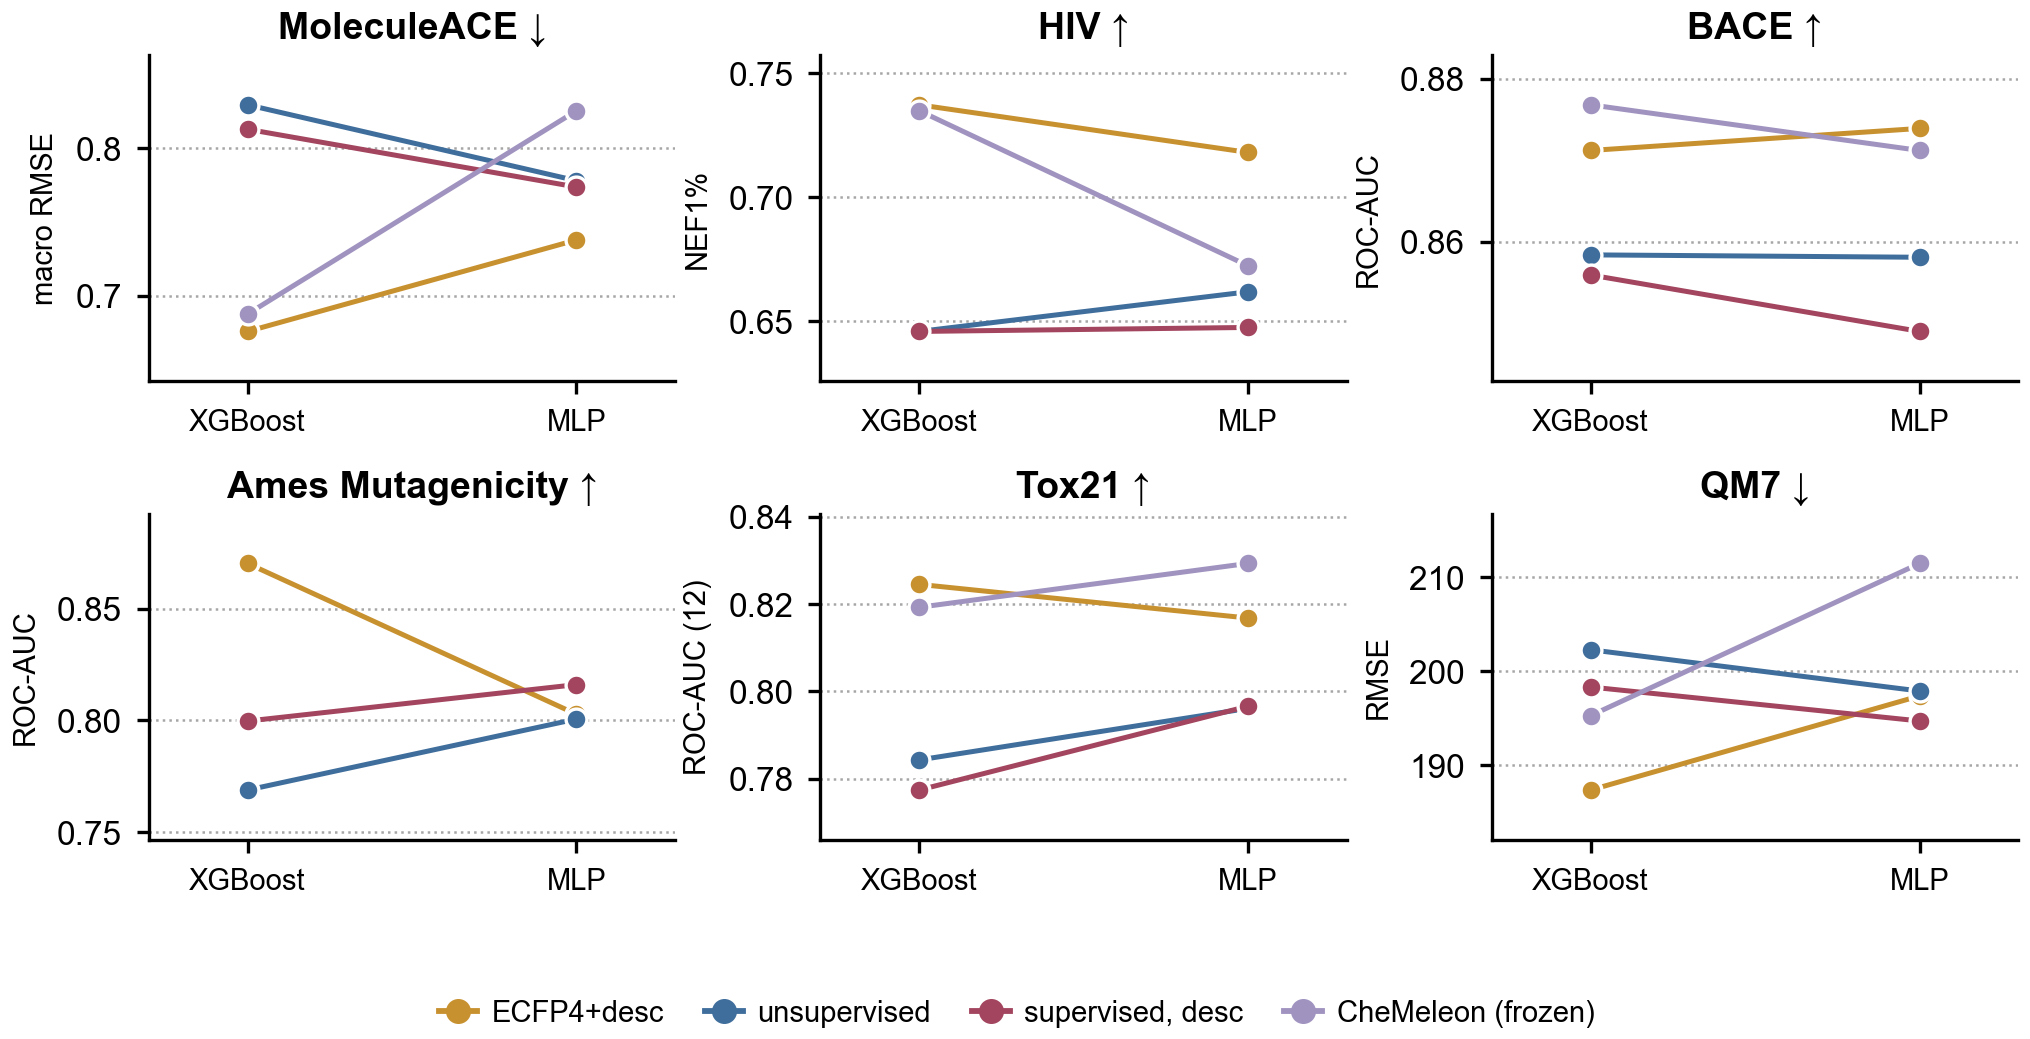
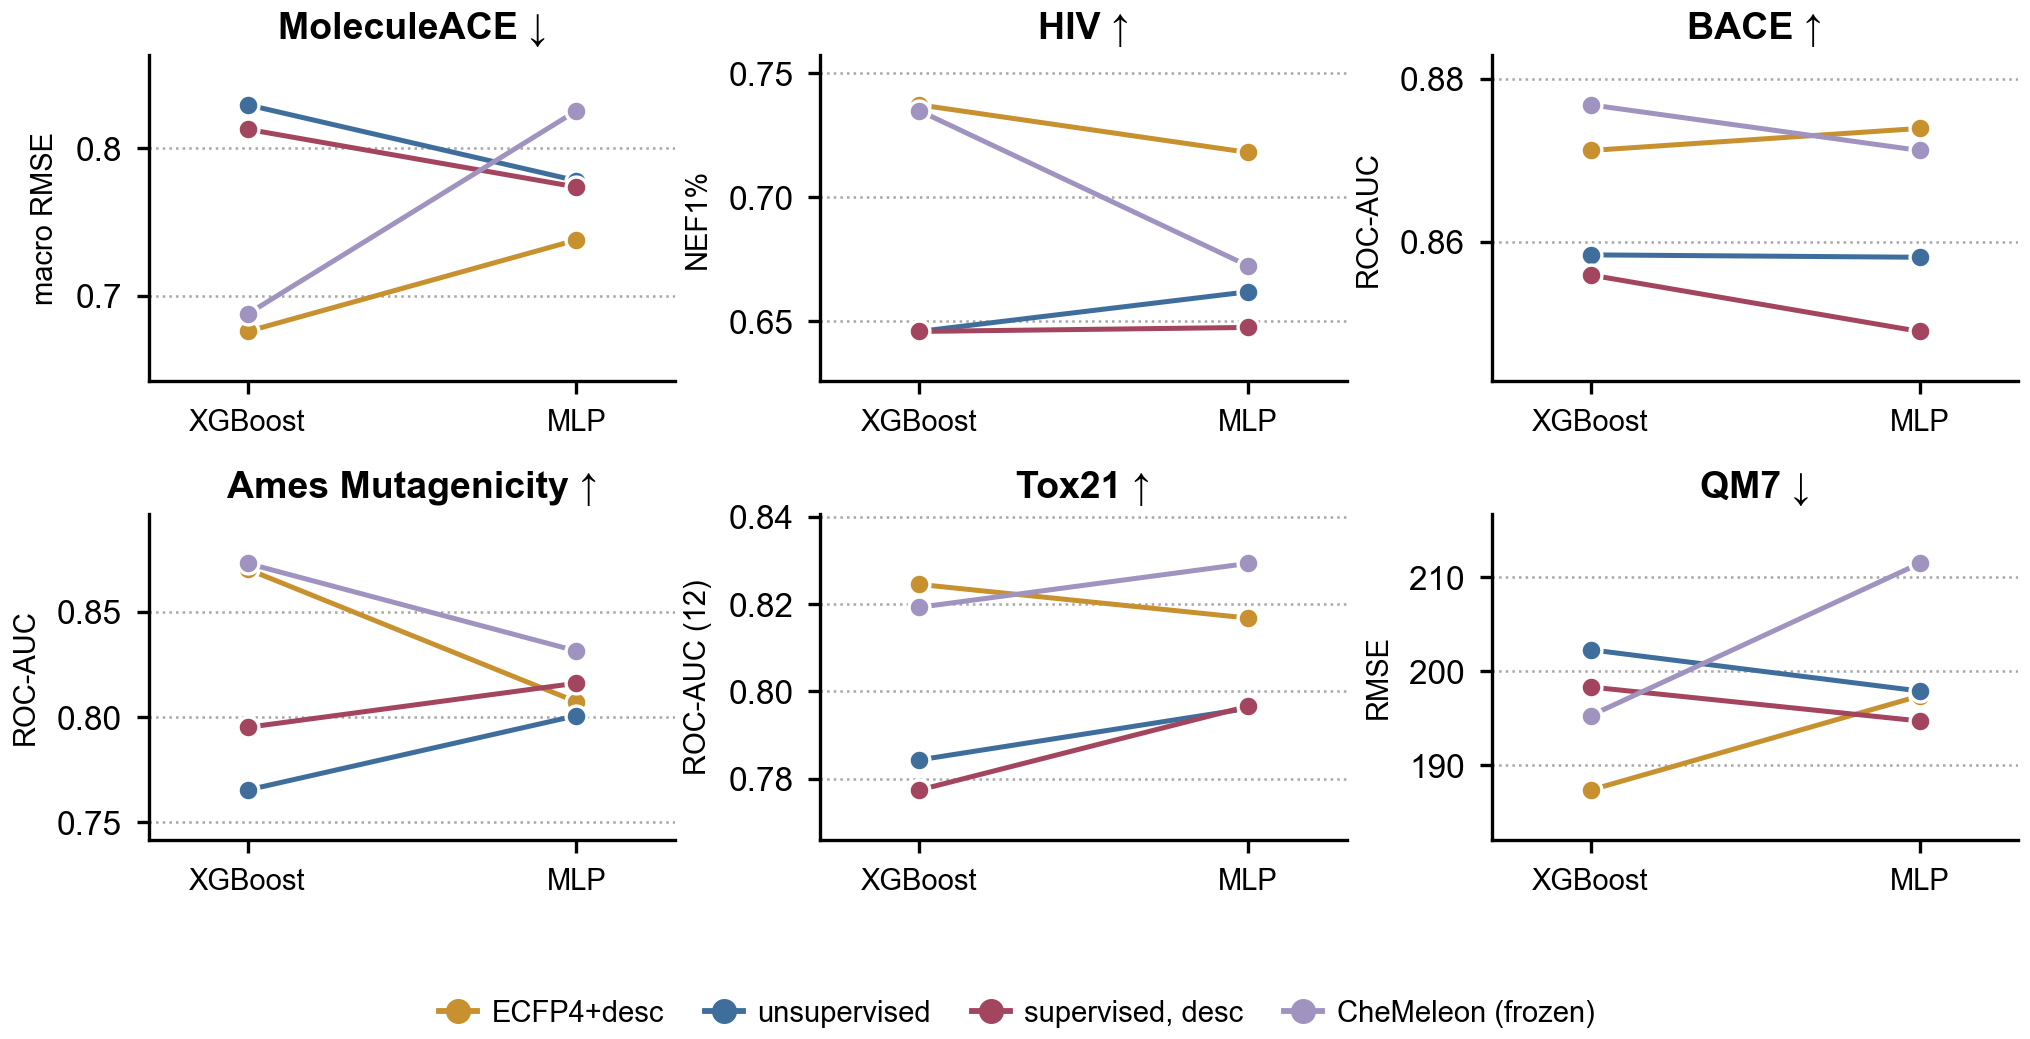
SI fig f: Ames panel complete; filter polaris_scores to the Ames task
The Polaris branch filtered on metric alone and averaged every roc_auc row in polaris_scores.csv --
nine unrelated Polaris tasks pooled into a cell labelled Ames. It read 0.7688 where Ames alone is
0.7652, close enough to pass as plausible. PANELS['Ames']['polaris_task'] already declared the
task; the file never asked. All four XGBoost cells now reproduce the peer's numbers exactly.

diff --git a/figures/SI_fig_f.py b/figures/SI_fig_f.py
@@ -17,12 +17,13 @@ as a SLOPE: left is XGBoost, right is MLP, one line per representation. The ques
 lines CROSS. Parallel means the head is a level shift and the ranking of representations is
 head-independent -- which is what the rest of the paper assumes.
 
-THE LINES CROSS ON EVERY PANEL THAT HAS RUN (5 of 5: MoleculeACE, HIV, BACE, Tox21, QM7; Ames is
-short one cell). The ranking of the four representations is NOT the same under the two heads
+THE LINES CROSS ON EVERY PANEL (6 of 6, complete 2026-08-20). The ranking of the four representations is NOT the same under the two heads
 anywhere:
 
   MoleculeACE  ECFP4+desc leads under both heads, but CheMeleon goes from SECOND under XGBoost
                (0.688) to LAST under the MLP (0.826), crossing both CLIMB arms
+  Ames         CheMeleon leads under XGBoost (0.873) and is THIRD under the MLP (0.831); both
+               CLIMB arms improve under the MLP while both classical/external arms get worse
   BACE         XGBoost puts CheMeleon first, the MLP puts ECFP4+desc first
   Tox21        XGBoost puts ECFP4+desc first, the MLP puts CheMeleon first
   QM7          XGBoost puts ECFP4+desc first by 8 kcal/mol; under the MLP it is third and
@@ -34,11 +35,19 @@ The size of the effect is the point: CheMeleon moves 16.2 kcal/mol on QM7, 0.063
 reports BETWEEN representations. It is the same arm every time, and always in the direction of
 preferring the tree ensemble.
 
-ONE CROSS-HEAD READING TO HEAD OFF. CheMeleon-under-XGBoost (0.688 on MoleculeACE) beats
-ECFP4+desc-under-the-MLP (0.738), which invites "CheMeleon is the best representation on
-MoleculeACE". It is not a comparison this figure supports: WITHIN each head ECFP4+desc leads, and
-the only reason the cross-head pairing flatters CheMeleon is the head swap this figure exists to
-expose. Compare down a column, never across the diagonal.
+COMPARE DOWN A COLUMN, NEVER ACROSS THE DIAGONAL. CheMeleon-under-XGBoost (0.688 on MoleculeACE)
+beats ECFP4+desc-under-the-MLP (0.738), which invites "CheMeleon is the best representation on
+MoleculeACE". WITHIN the XGBoost column ECFP4+desc leads at 0.676; the cross-head pairing flatters
+CheMeleon only because of the head swap this figure exists to expose. The same trap runs the other
+way on Ames, where CheMeleon-XGBoost (0.873) against ECFP4+desc-MLP (0.807) looks like a wide win
+and the within-column gap is 0.873 vs 0.870 -- a tie.
+
+AND THE SHARPER SENTENCE, ON MoleculeACE, ALL UNDER XGBoost: bare ECFP4 with no descriptors reads
+0.6877 against CheMeleon-frozen's 0.6875. A 2048-bit fingerprint matches a molecular foundation
+model to three decimals under the same probe, and the descriptor and R3FP variants beat both
+(ECFP4+desc 0.6757, R3FP 0.6721, R3FP+desc 0.6676). Ames is the counterweight and is why neither
+"CheMeleon is strong" nor "classical wins" survives a single panel: there CheMeleon and ECFP4+desc
+tie at the top under XGBoost while both CLIMB arms sit 0.07-0.11 below.
 
 WHAT THAT DOES AND DOES NOT LICENCE. It does not overturn fig_A1: that figure scores every arm
 through the head each is normally used with, which is the honest engineering comparison, and the
@@ -142,6 +151,12 @@ def _head_cell(arm, head, panel):
     Returns None when the run has not been done -- the panel then says so rather than dropping the
     line silently, which is the difference between "no effect" and "not measured".
     """
+    # THE POLARIS FILE IS THE WHOLE TRACK, NOT ONE PANEL. polaris_scores.csv holds 28 tasks; the
+    # Ames panel is ONE of them, PANELS["Ames"]["polaris_task"] = "tdcommons/ames". Until
+    # 2026-08-20 this branch filtered on metric alone and averaged every roc_auc row in the file,
+    # i.e. nine unrelated Polaris classification tasks pooled into a cell labelled Ames. It read
+    # 0.7688 where Ames alone is 0.7652 -- close enough to look like a plausible Ames number,
+    # which is why it survived. arms.py already declared the task; this file simply never asked.
     task = panel
     if panel in ("MoleculeACE", "Ames"):
         track = "moleculeace" if panel == "MoleculeACE" else "polaris"
@@ -154,7 +169,9 @@ def _head_cell(arm, head, panel):
             if panel == "MoleculeACE":
                 if r.get("subset") == "overall" and r.get("metric") == "rmse":
                     vals.append(float(r["value"]))
-            elif r.get("metric") == "roc_auc" and r.get("value") not in ("", "nan"):
+            elif (r.get("task") == PANELS[panel]["polaris_task"]
+                  and r.get("metric") == PANELS[panel]["metric"]
+                  and r.get("value") not in ("", "nan")):
                 vals.append(float(r["value"]))
         return st.mean(vals) if vals else None
 
